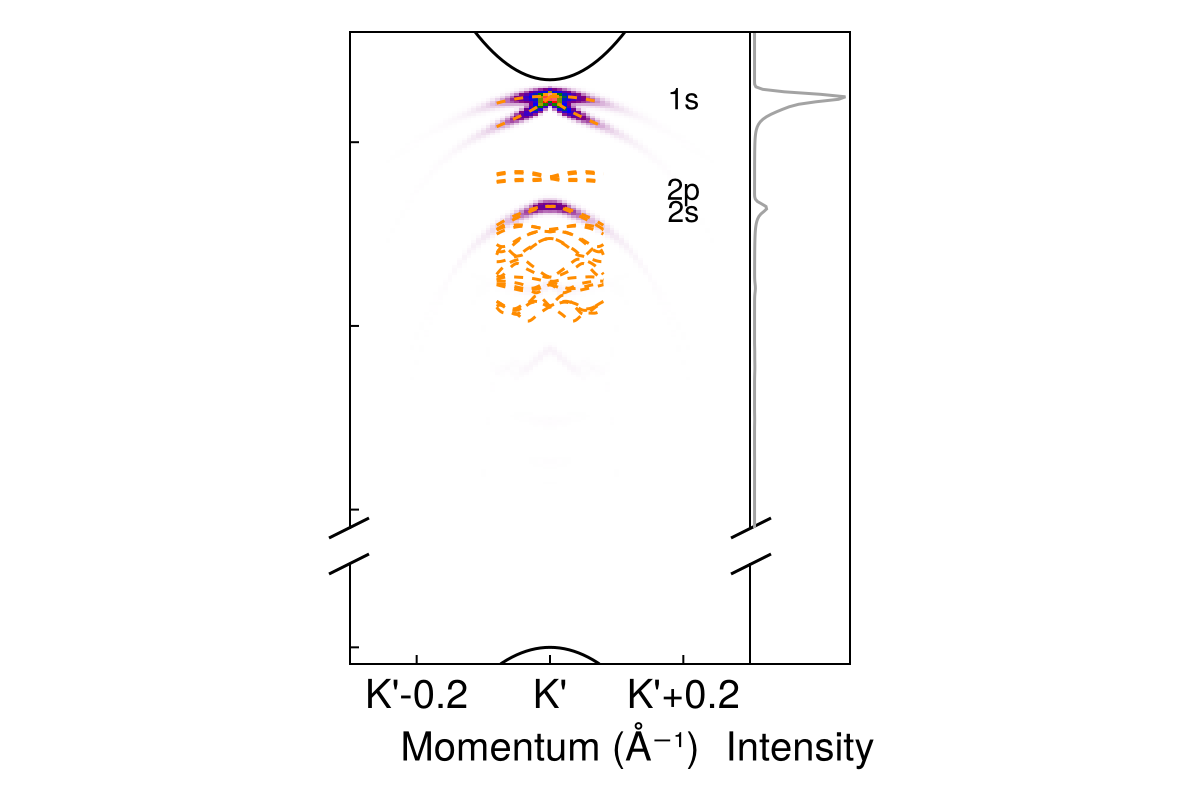
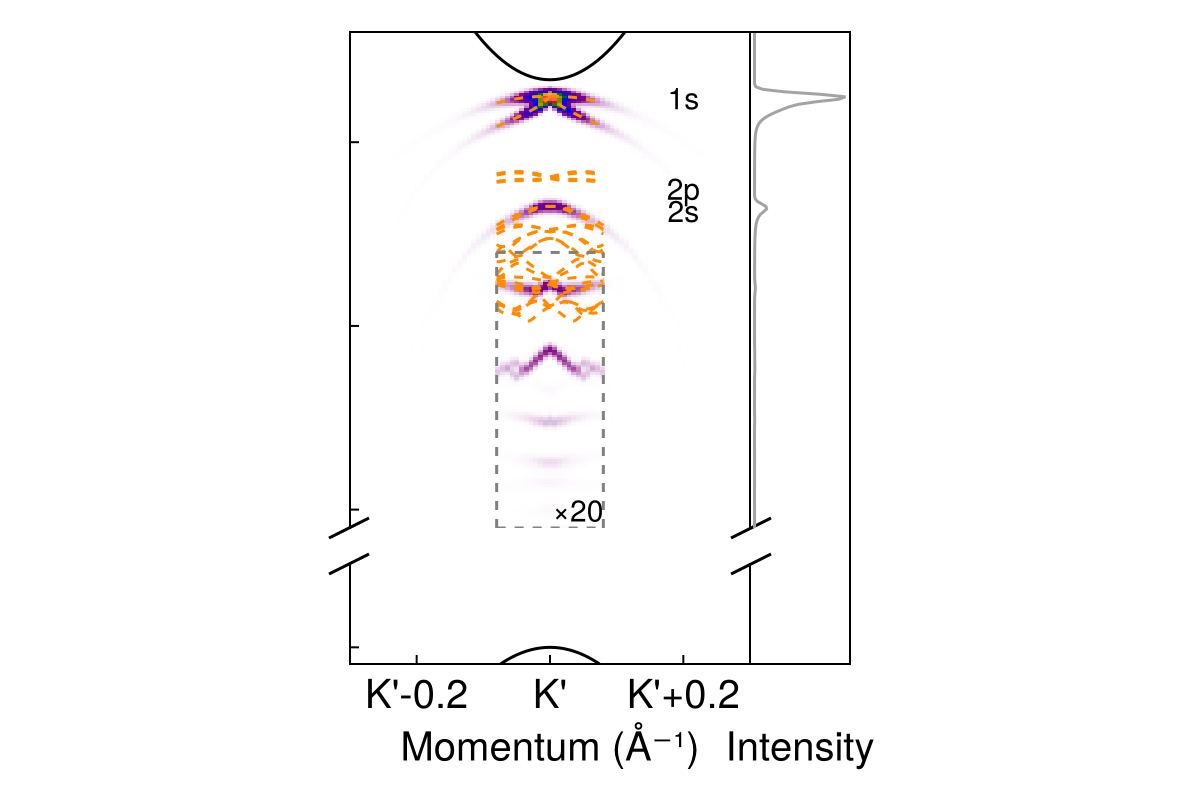
update images

diff --git a/simplified/eeh-display-discrete.md b/simplified/eeh-display-discrete.md
@@ -77,10 +77,11 @@ The above two images are generated using the correct exciton wave function phase
 We note that the gray frequency-dependent figures in all figures above are *not* momentum-integrated.
 For momentum-integrated EDC, run [`eeh-heatmap-prototype-discrete-final-zoom-in-display-fold-K-lots-of-bands-integrated.jl`](eeh-heatmap-prototype-discrete-final-zoom-in-display-fold-K-lots-of-bands-integrated.jl) to get 
 
-![eeh-heatmap-prototype-discrete-final-zoom-in-display-fold-K-lots-of-bands-integrated.png](eeh-heatmap-prototype-discrete-final-zoom-in-display-fold-K-lots-of-bands-integrated.png)
+![](eeh-heatmap-prototype-discrete-final-zoom-in-display-fold-K-lots-of-bands-integrated.png)
 
 and run [`eeh-heatmap-prototype-discrete-final-zoom-in-display-fold-Kp-lots-of-bands-integrated.jl`](eeh-heatmap-prototype-discrete-final-zoom-in-display-fold-Kp-lots-of-bands-integrated.jl) to get 
 
 ![](eeh-heatmap-prototype-discrete-final-zoom-in-display-fold-Kp-lots-of-bands-integrated.png)
 
 Note that the linear exciton bands give the momentum integrated EDC an asymmetric line shape.
+The dotted line symbolizing the line cut has been removed from the figures.
